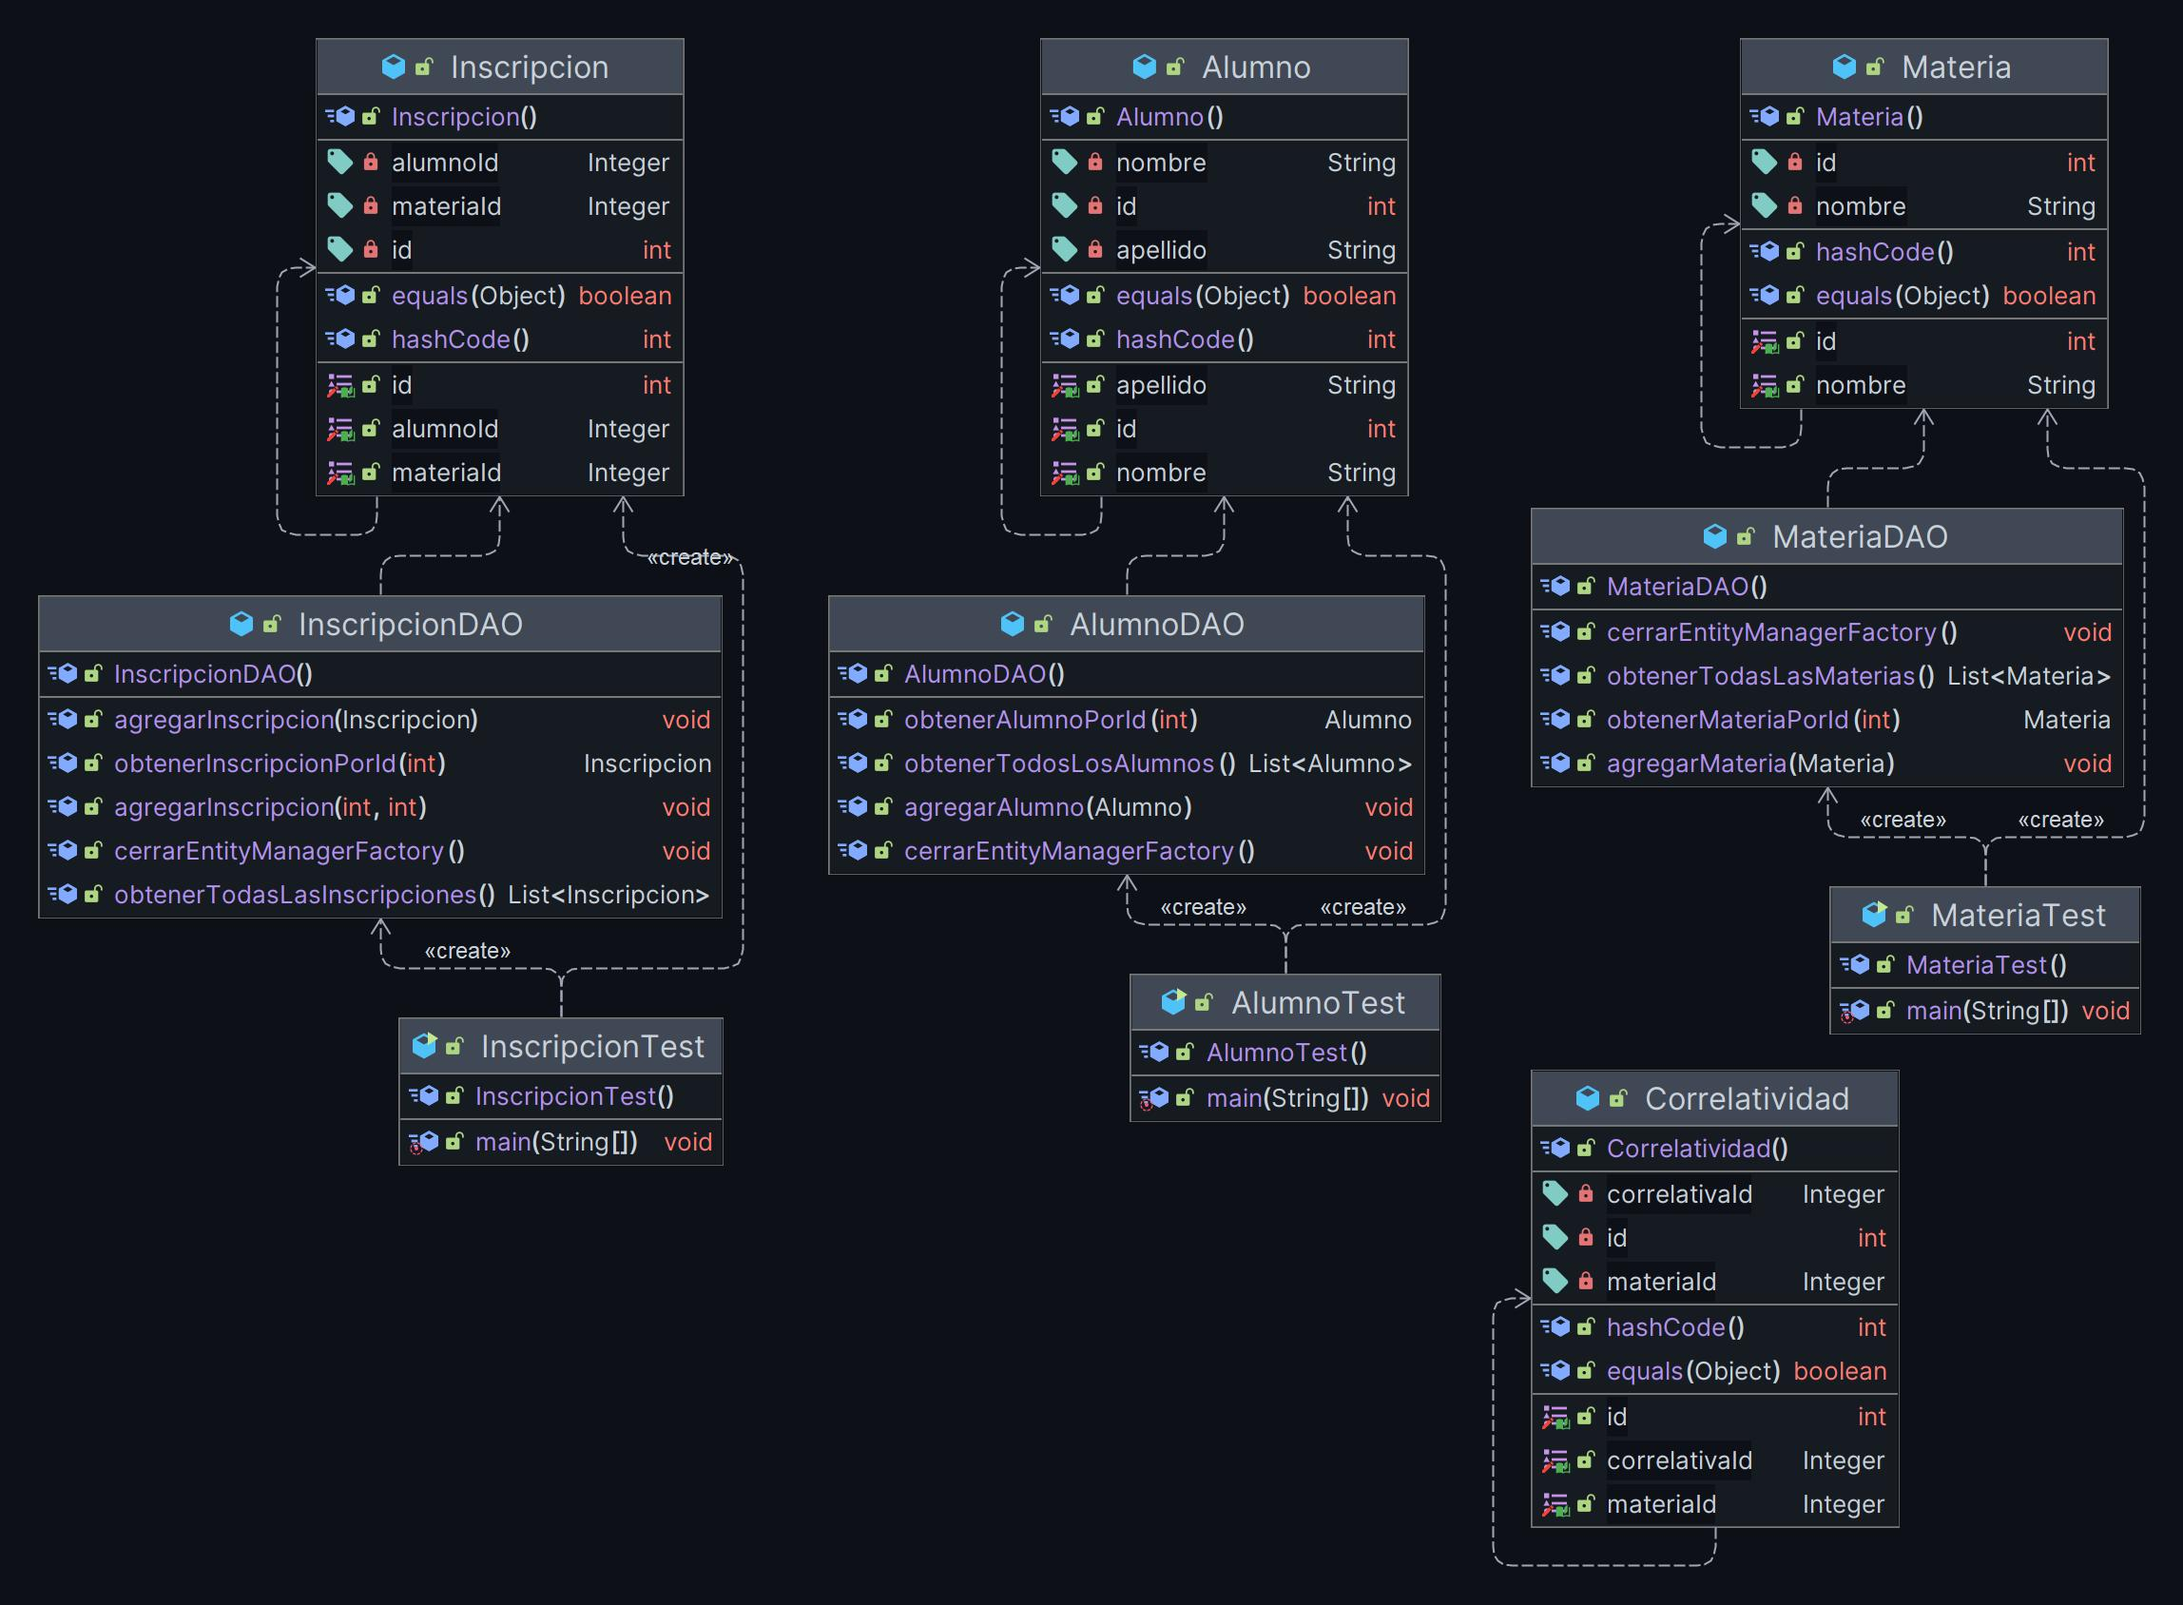
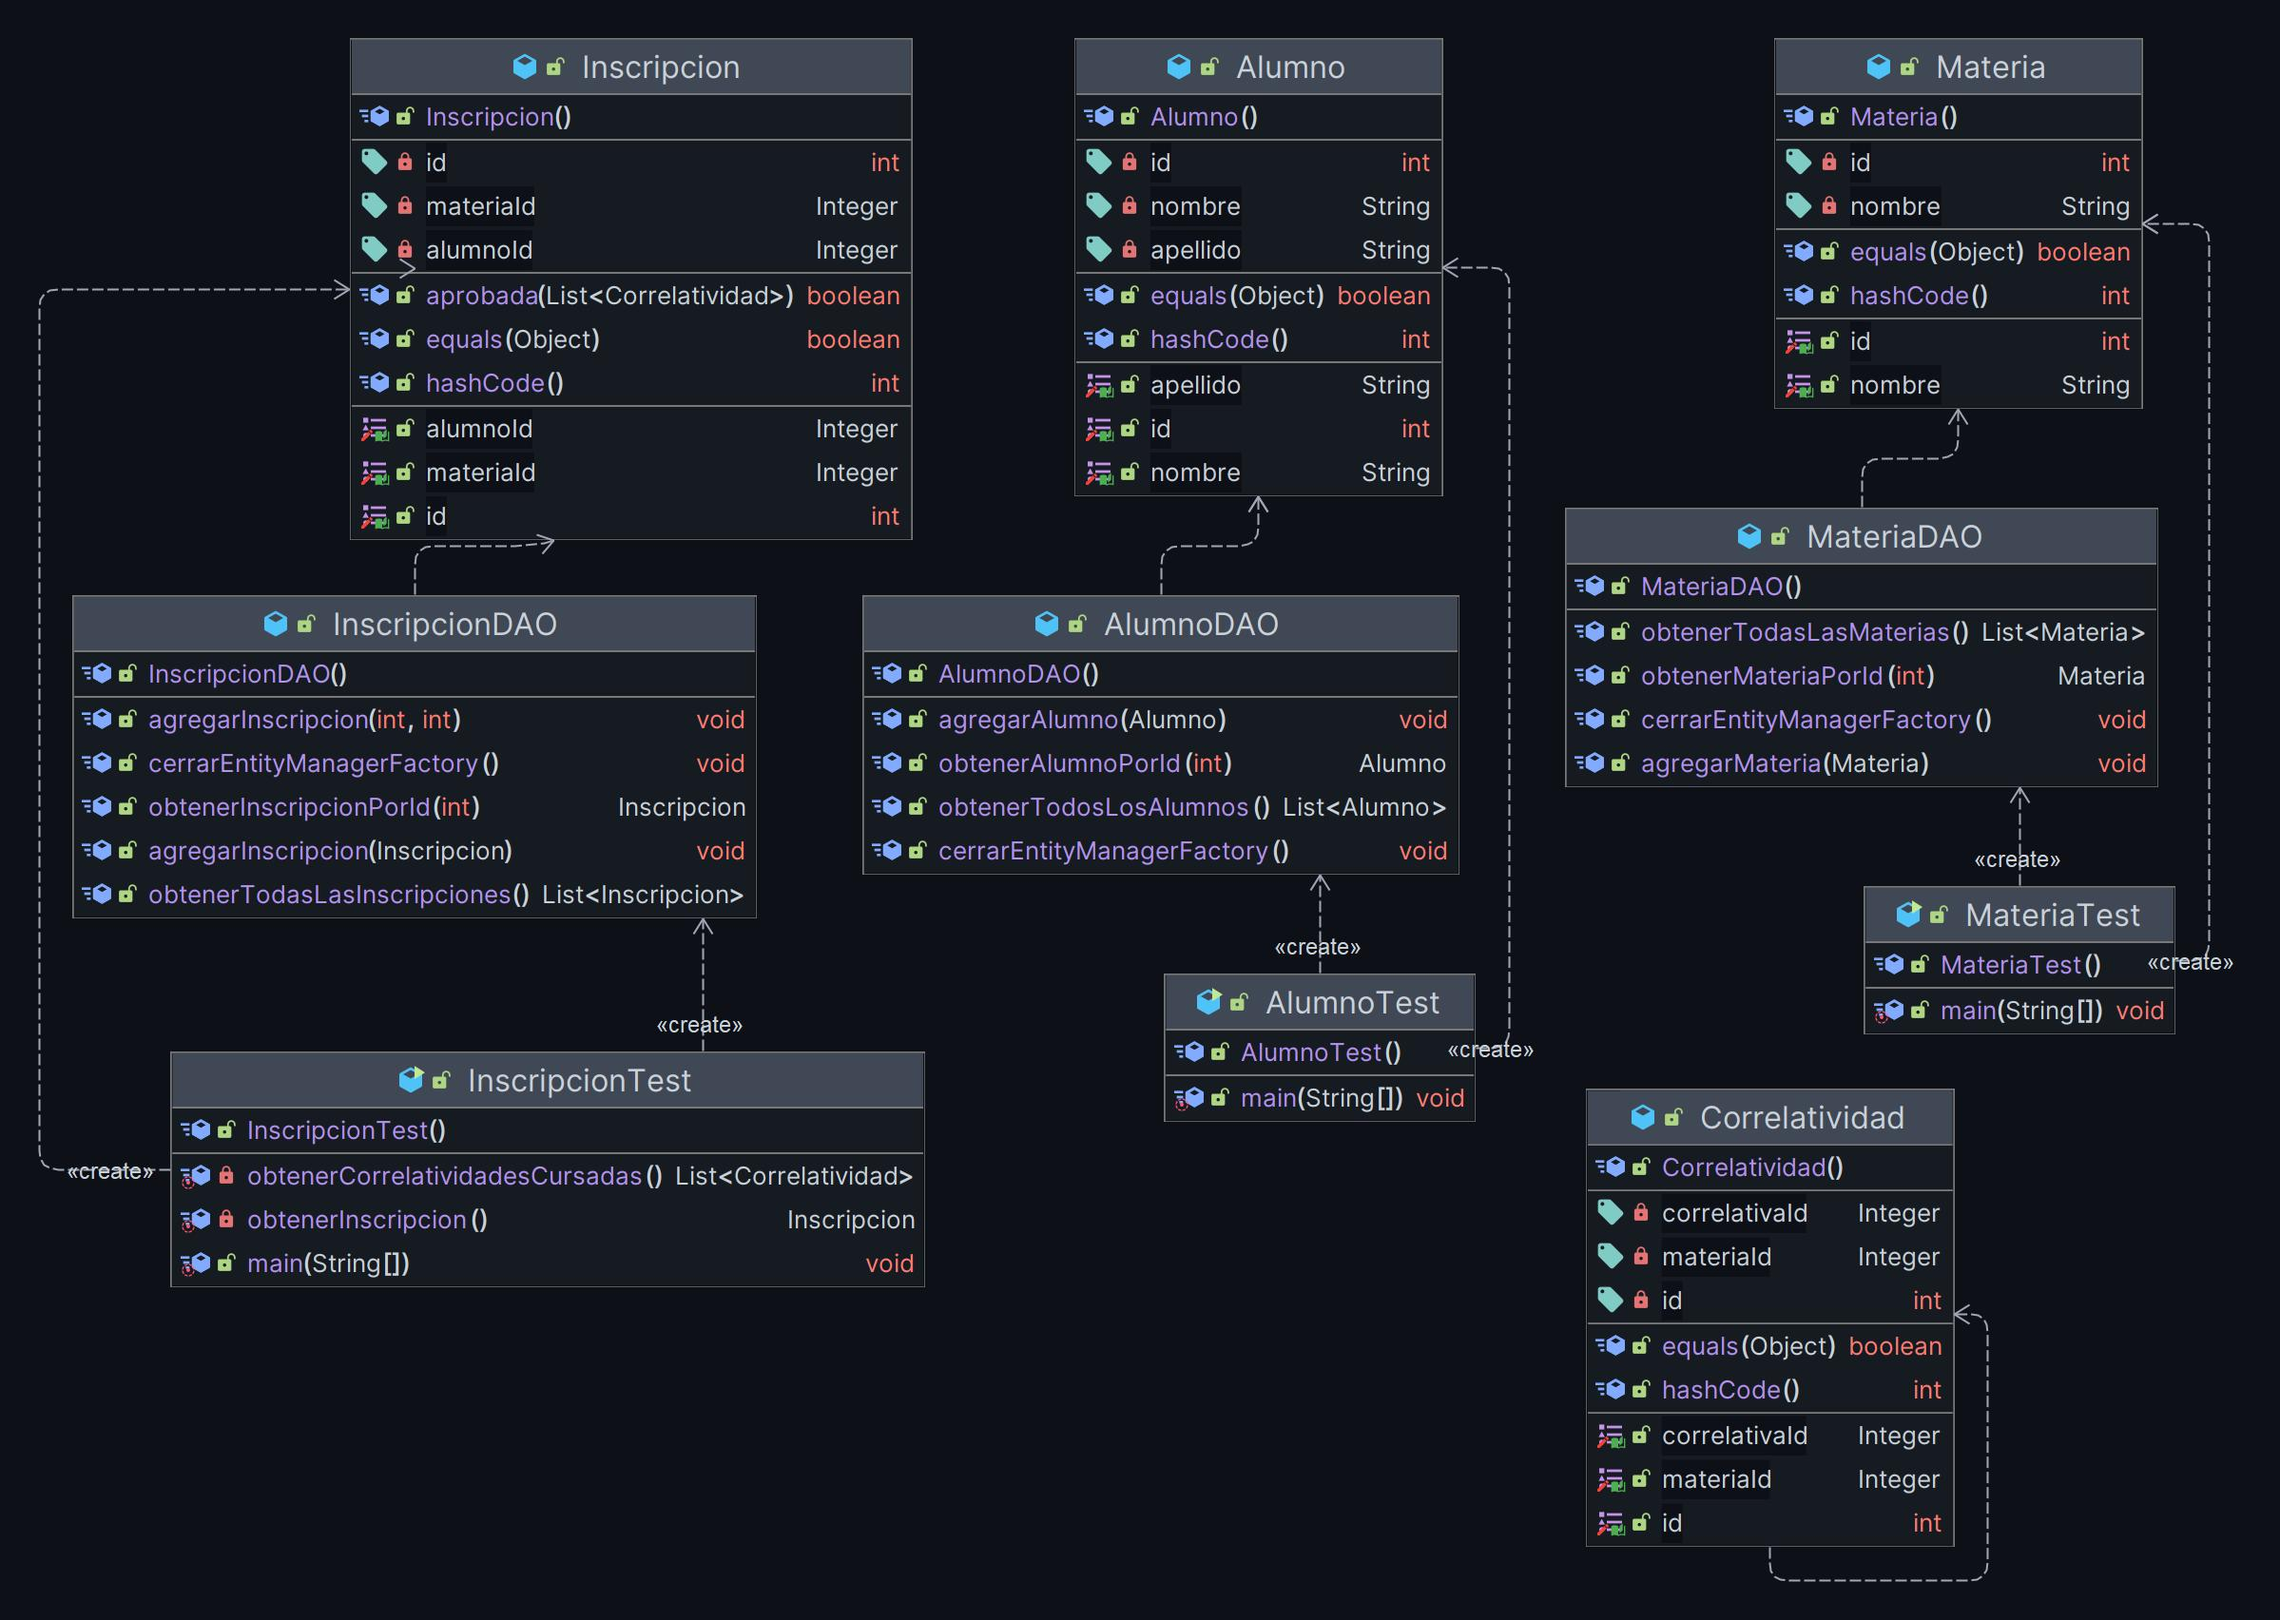
Readme.md

Changed region(s): [[0.3711, 0.0, 0.9895, 0.9858], [0.0, 0.0, 0.4329, 0.8009], [0.7731, 0.0, 0.9895, 0.2464]]

diff --git a/src/main/java/com/joelfiare/test/InscripcionTest.java b/src/main/java/com/joelfiare/test/InscripcionTest.java
@@ -1,7 +1,9 @@
 package com.joelfiare.test;
 
 import com.joelfiare.dao.InscripcionDAO;
+import com.joelfiare.model.Correlatividad;
 import com.joelfiare.model.Inscripcion;
+import com.joelfiare.service.InscripcionService;
 
 import java.util.List;
 
@@ -12,9 +14,20 @@ public class InscripcionTest {
         InscripcionDAO inscripcionDAO = new InscripcionDAO();
 
         // Agregar una inscripción de prueba
-        Inscripcion inscripcion = new Inscripcion();
+
+
+        // Suponiendo que aquí obtienes las correlatividades cursadas por el alumno
+        List<Correlatividad> correlatividadesCursadas = obtenerCorrelatividadesCursadas();
+
+        // Suponiendo que aquí obtienes la inscripción
+        Inscripcion inscripcion = obtenerInscripcion();
         inscripcion.setAlumnoId(1); // ID de alumno existente en la base de datos
         inscripcion.setMateriaId(1); // ID de materia existente en la base de datos
+
+        // Utilizando el servicio para verificar si la inscripción está aprobada
+        InscripcionService inscripcionService = new InscripcionService();
+        boolean aprobada = inscripcionService.estaAprobada(inscripcion, correlatividadesCursadas);
+
 
         // Agregar la inscripción a la base de datos
         inscripcionDAO.agregarInscripcion(inscripcion);
@@ -38,5 +51,12 @@ public class InscripcionTest {
 
         // Cerrar el EntityManagerFactory al finalizar
         inscripcionDAO.cerrarEntityManagerFactory();
+    }
+    private static List<Correlatividad> obtenerCorrelatividadesCursadas() {
+        return List.of();
+    }
+
+    private static Inscripcion obtenerInscripcion() {
+        return new Inscripcion();
     }
 }

diff --git a/src/main/java/com/joelfiare/model/Inscripcion.java b/src/main/java/com/joelfiare/model/Inscripcion.java
@@ -2,6 +2,8 @@ package com.joelfiare.model;
 
 import jakarta.persistence.*;
 
+import java.util.List;
+
 @Entity
 public class Inscripcion {
     @GeneratedValue(strategy = GenerationType.IDENTITY)
@@ -59,5 +61,13 @@ public class Inscripcion {
         result = 31 * result + (alumnoId != null ? alumnoId.hashCode() : 0);
         result = 31 * result + (materiaId != null ? materiaId.hashCode() : 0);
         return result;
+    }
+    public boolean aprobada(List<Correlatividad> correlatividadesCursadas) {
+        for (Correlatividad correlatividad : correlatividadesCursadas) {
+            if (correlatividad.getMateriaId() == this.getMateriaId()) {
+                return true;
+            }
+        }
+        return false;
     }
 }

diff --git a/src/main/java/com/joelfiare/service/InscripcionService.java b/src/main/java/com/joelfiare/service/InscripcionService.java
@@ -1,0 +1,13 @@
+package com.joelfiare.service;
+
+import com.joelfiare.model.Correlatividad;
+import com.joelfiare.model.Inscripcion;
+
+import java.util.List;
+
+public class InscripcionService {
+
+    public boolean estaAprobada(Inscripcion inscripcion, List<Correlatividad> correlatividadesCursadas) {
+        return inscripcion.aprobada(correlatividadesCursadas);
+    }
+}

diff --git a/src/main/java/com/joelfiare/dao/InscripcionDAO.java b/src/main/java/com/joelfiare/dao/InscripcionDAO.java
@@ -37,6 +37,8 @@ public class InscripcionDAO {
         }
     }
 
+
+
     public List<Inscripcion> obtenerTodasLasInscripciones() {
         EntityManager entityManager = entityManagerFactory.createEntityManager();
         return entityManager.createQuery("SELECT i FROM Inscripcion i", Inscripcion.class).getResultList();
